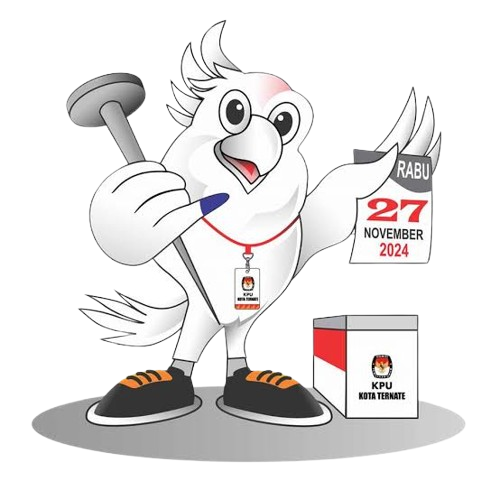
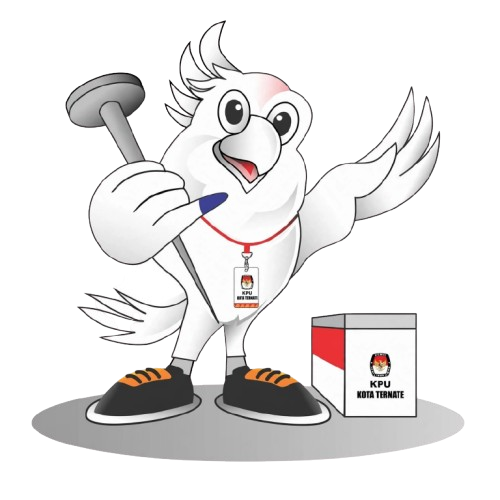
perubahan boneka

diff --git a/resources/views/tamu/buku-tamu.blade.php b/resources/views/tamu/buku-tamu.blade.php
@@ -1992,12 +1992,12 @@
                     <div class="welcome-marquee__window">
                         <span class="welcome-marquee__track">Selamat datang di layanan digital Komisi Pemilihan Umum Kota Ternate &nbsp;•&nbsp; Melayani dengan profesional, transparan, dan berintegritas</span>
                     </div>
-                    <img class="welcome-marquee__mascot" src="{{ asset('boneka-kpu.png') }}" alt="Maskot KPU Kota Ternate">
+                    <img class="welcome-marquee__mascot" src="{{ asset('boneka-kpu.png') }}?v=20261014" alt="Maskot KPU Kota Ternate">
                 </div>
                 <h1>Buku Tamu Digital</h1>
             @else
             <div class="hero-title">
-                <img class="hero-mascot" src="{{ asset('boneka-kpu.png') }}" alt="Boneka maskot KPU Kota Ternate">
+                <img class="hero-mascot" src="{{ asset('boneka-kpu.png') }}?v=20261014" alt="Boneka maskot KPU Kota Ternate">
                 <h1>Buku Tamu Digital</h1>
             </div>
             @endif
